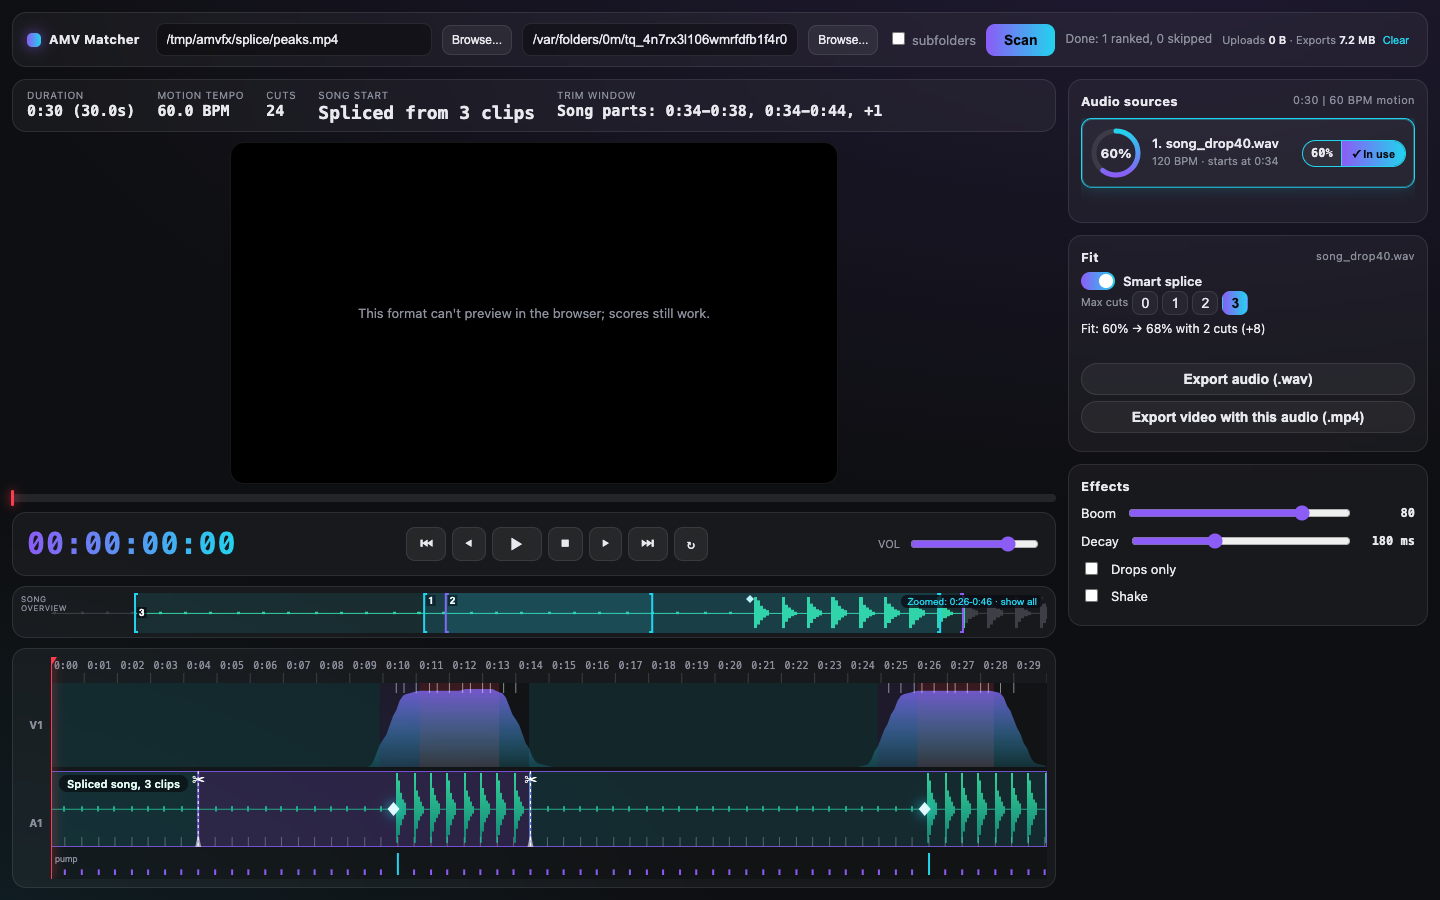
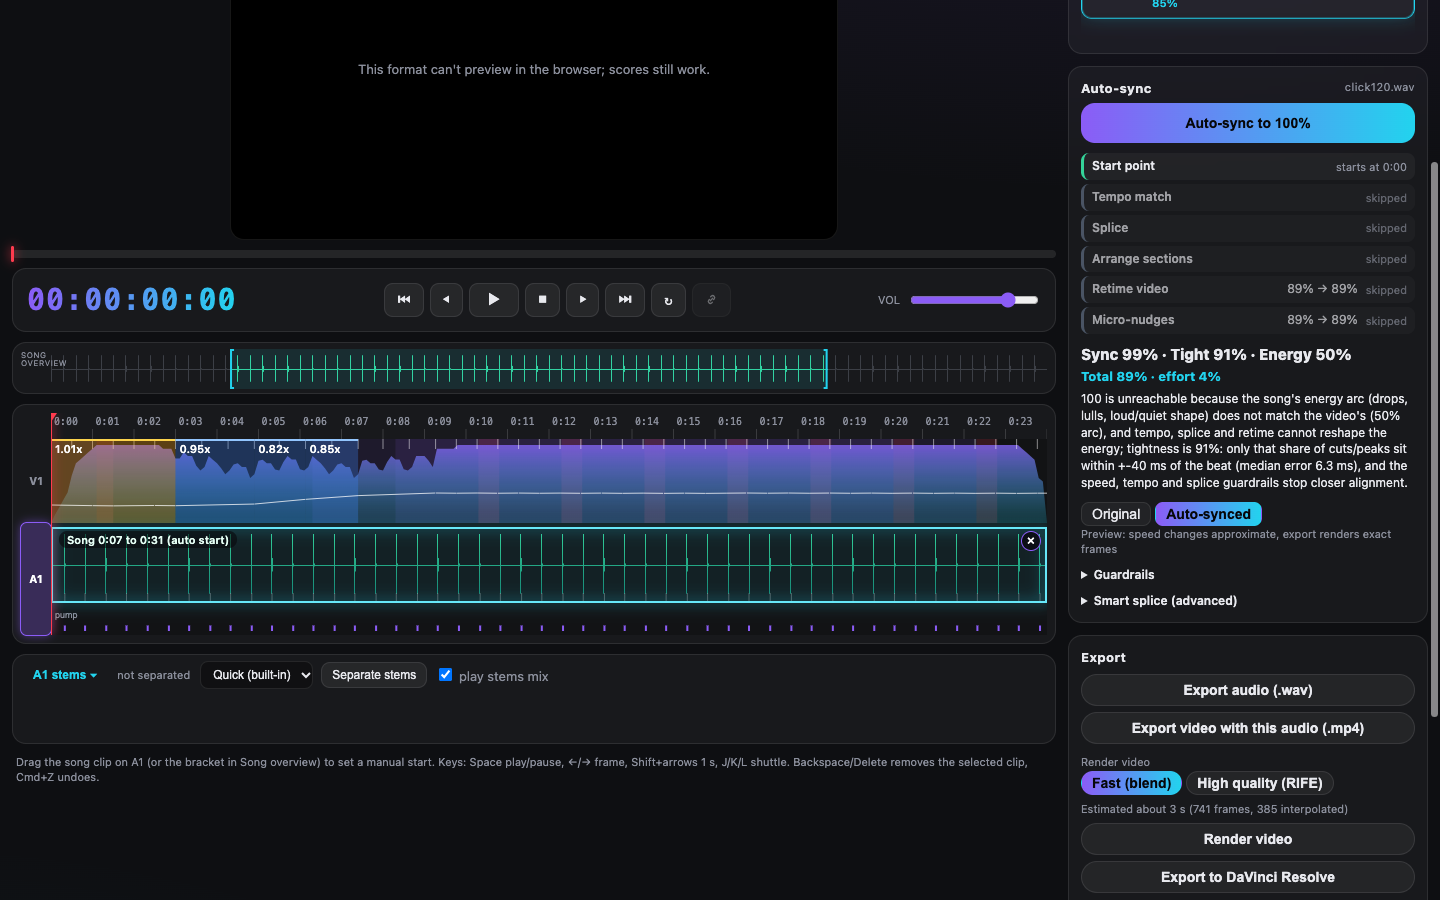
docs: ui.png shows auto-synced pair with V1 retime bands, step list and headline; slow-section fixture 3-9 s

diff --git a/tools/ui_smoke.py b/tools/ui_smoke.py
@@ -857,7 +857,7 @@ def main():
                 os.makedirs("/tmp/amvfx/slow", exist_ok=True)
                 os.makedirs(sl_dir, exist_ok=True)
                 if not os.path.exists("/tmp/amvfx/slow/slow.mp4"):
-                    make_video_jumps("/tmp/amvfx/slow/slow.mp4", slow_section_jump_times(20.0), seconds=20.0)
+                    make_video_jumps("/tmp/amvfx/slow/slow.mp4", slow_section_jump_times(24.0), seconds=24.0)
                 if not os.path.exists(sl_dir + "/click120.wav"):
                     make_click_track(sl_dir + "/click120.wav", 120, 40, 0.0)
             except Exception as e:

diff --git a/tests/synth.py b/tests/synth.py
@@ -183,10 +183,10 @@ def make_video_jumps(path, jump_times, seconds=20.0, fps=30, size=(320, 240)):
     vw.release()
 
 
-def slow_section_jump_times(seconds=20.0):
-    """0.5 s between jumps, 0.625 s between 5 and 15 s (a known slow section)."""
+def slow_section_jump_times(seconds=24.0):
+    """0.5 s between jumps, 0.625 s between 3 and 9 s (a known slow section)."""
     out, t = [], 0.0
     while t < seconds:
         out.append(round(t, 4))
-        t += 0.625 if 5.0 <= t < 15.0 else 0.5
+        t += 0.625 if 3.0 <= t < 9.0 else 0.5
     return out
